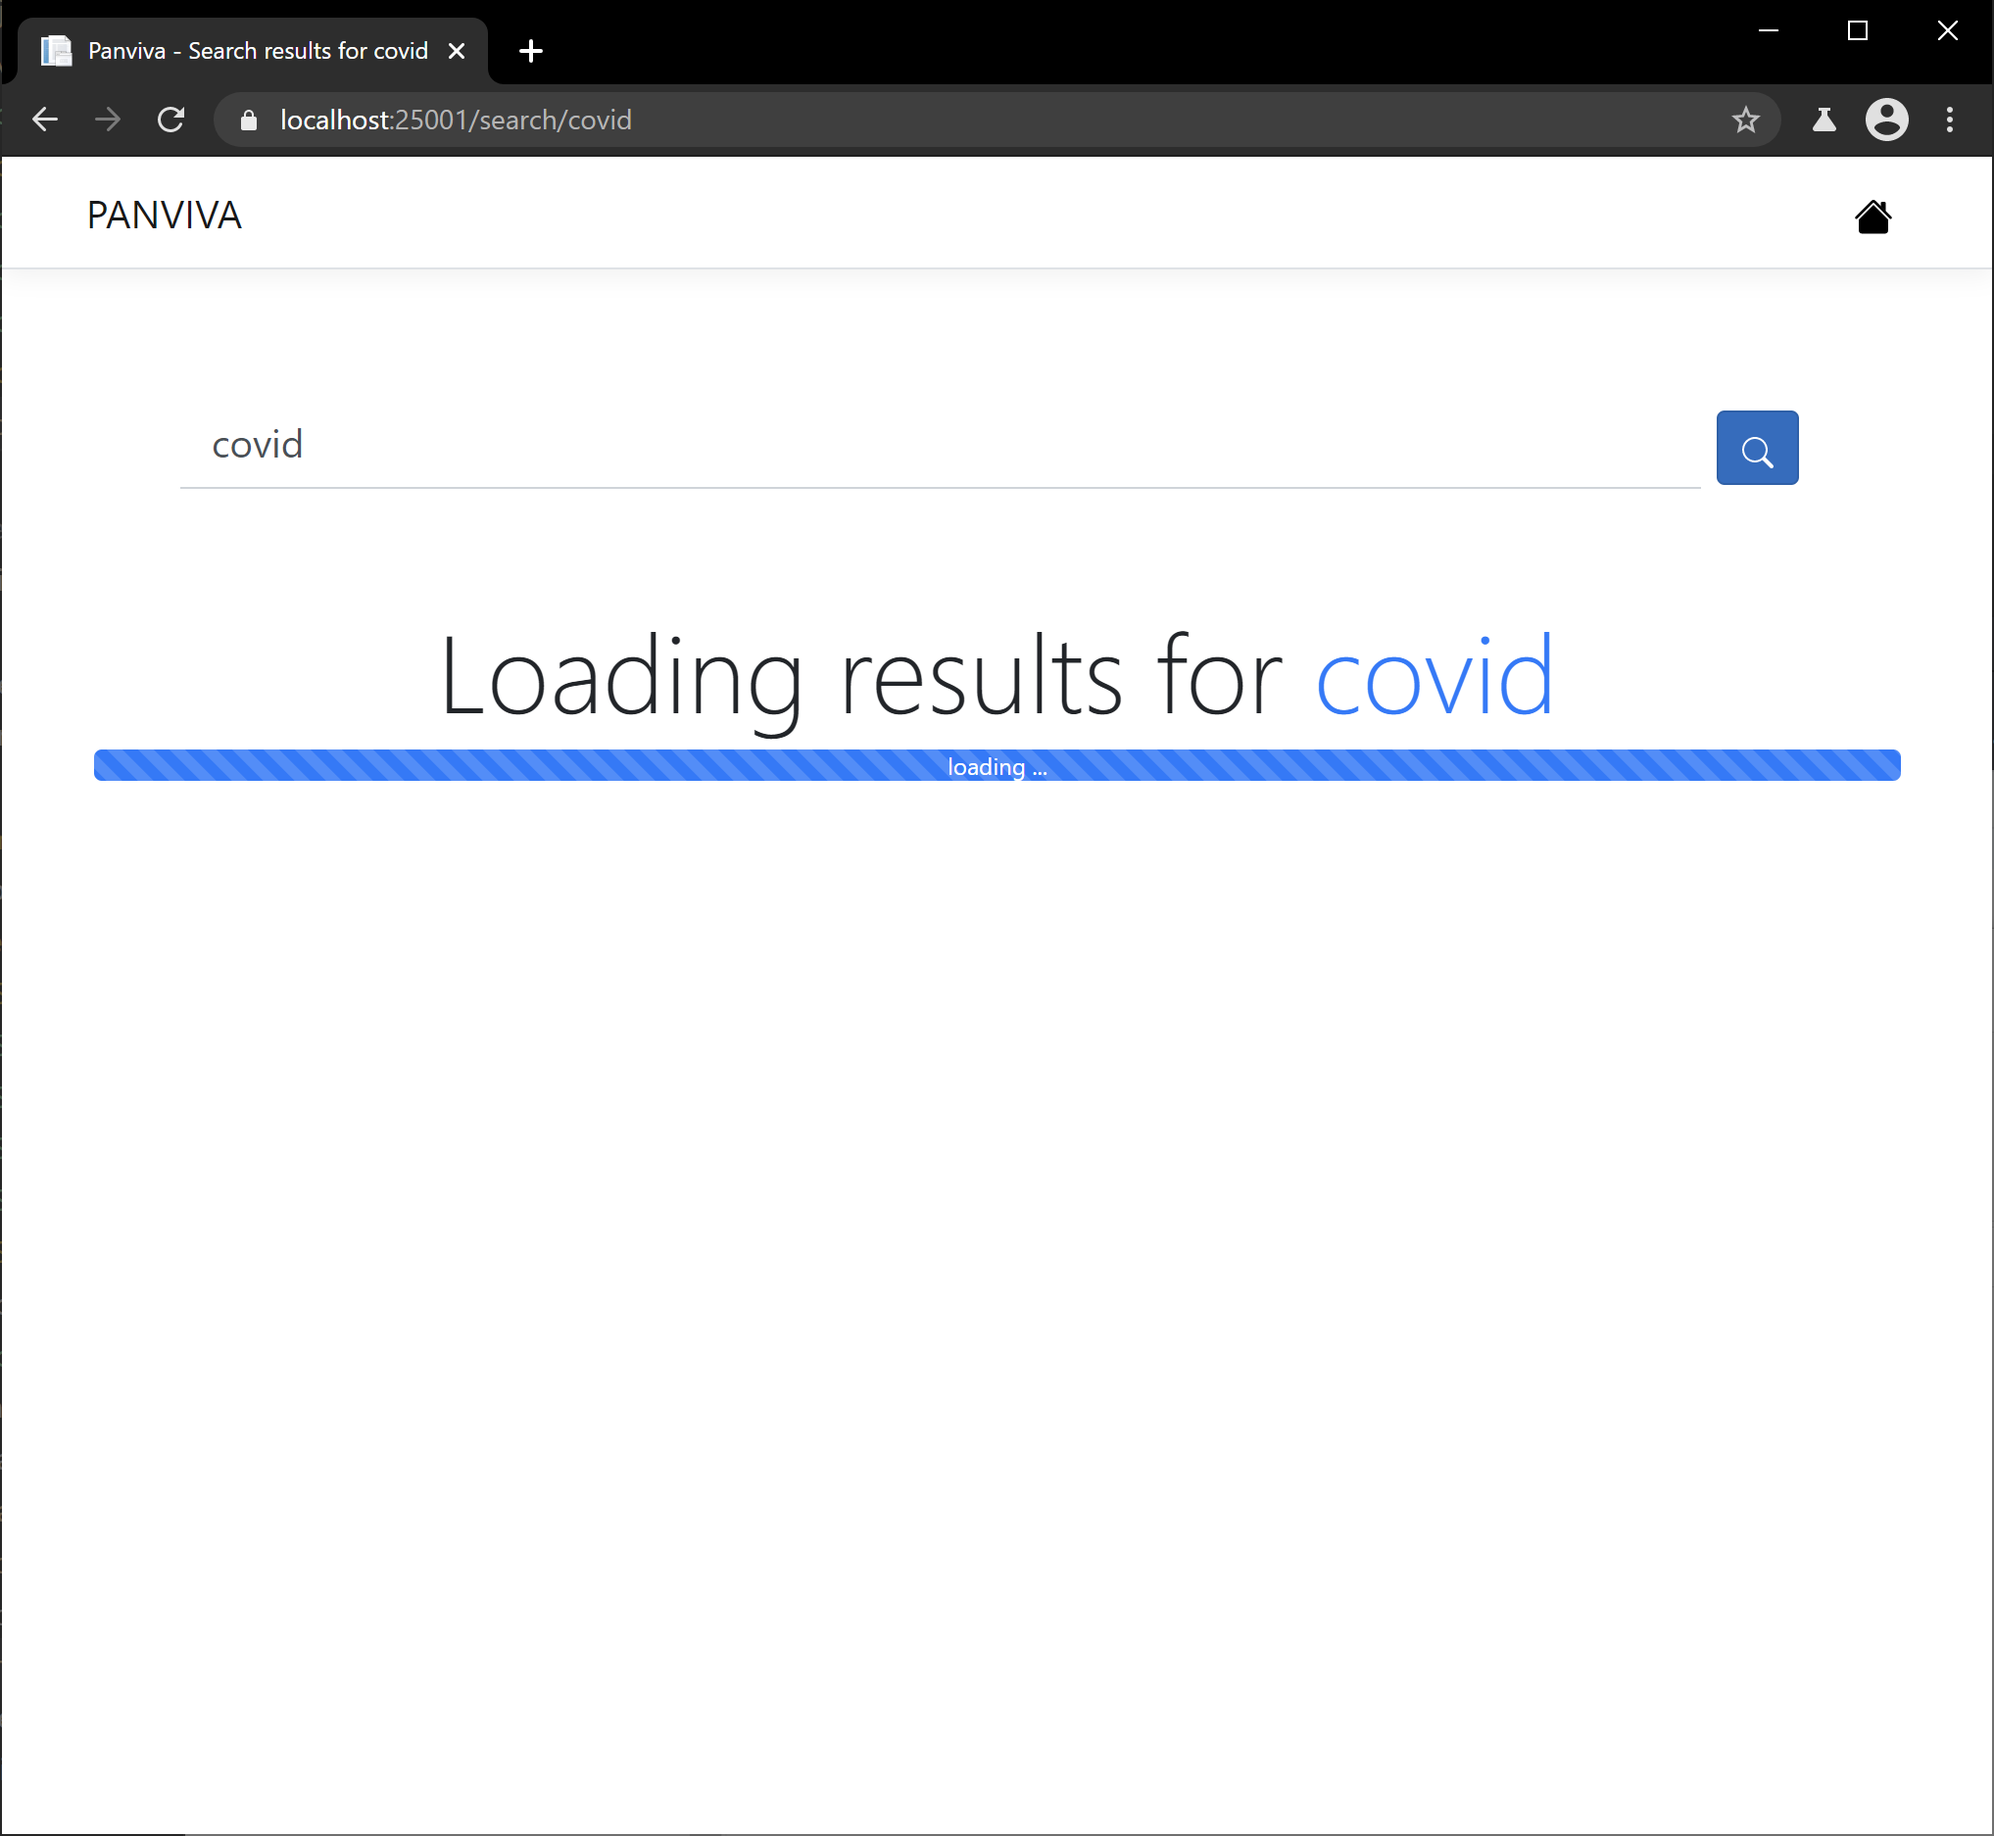
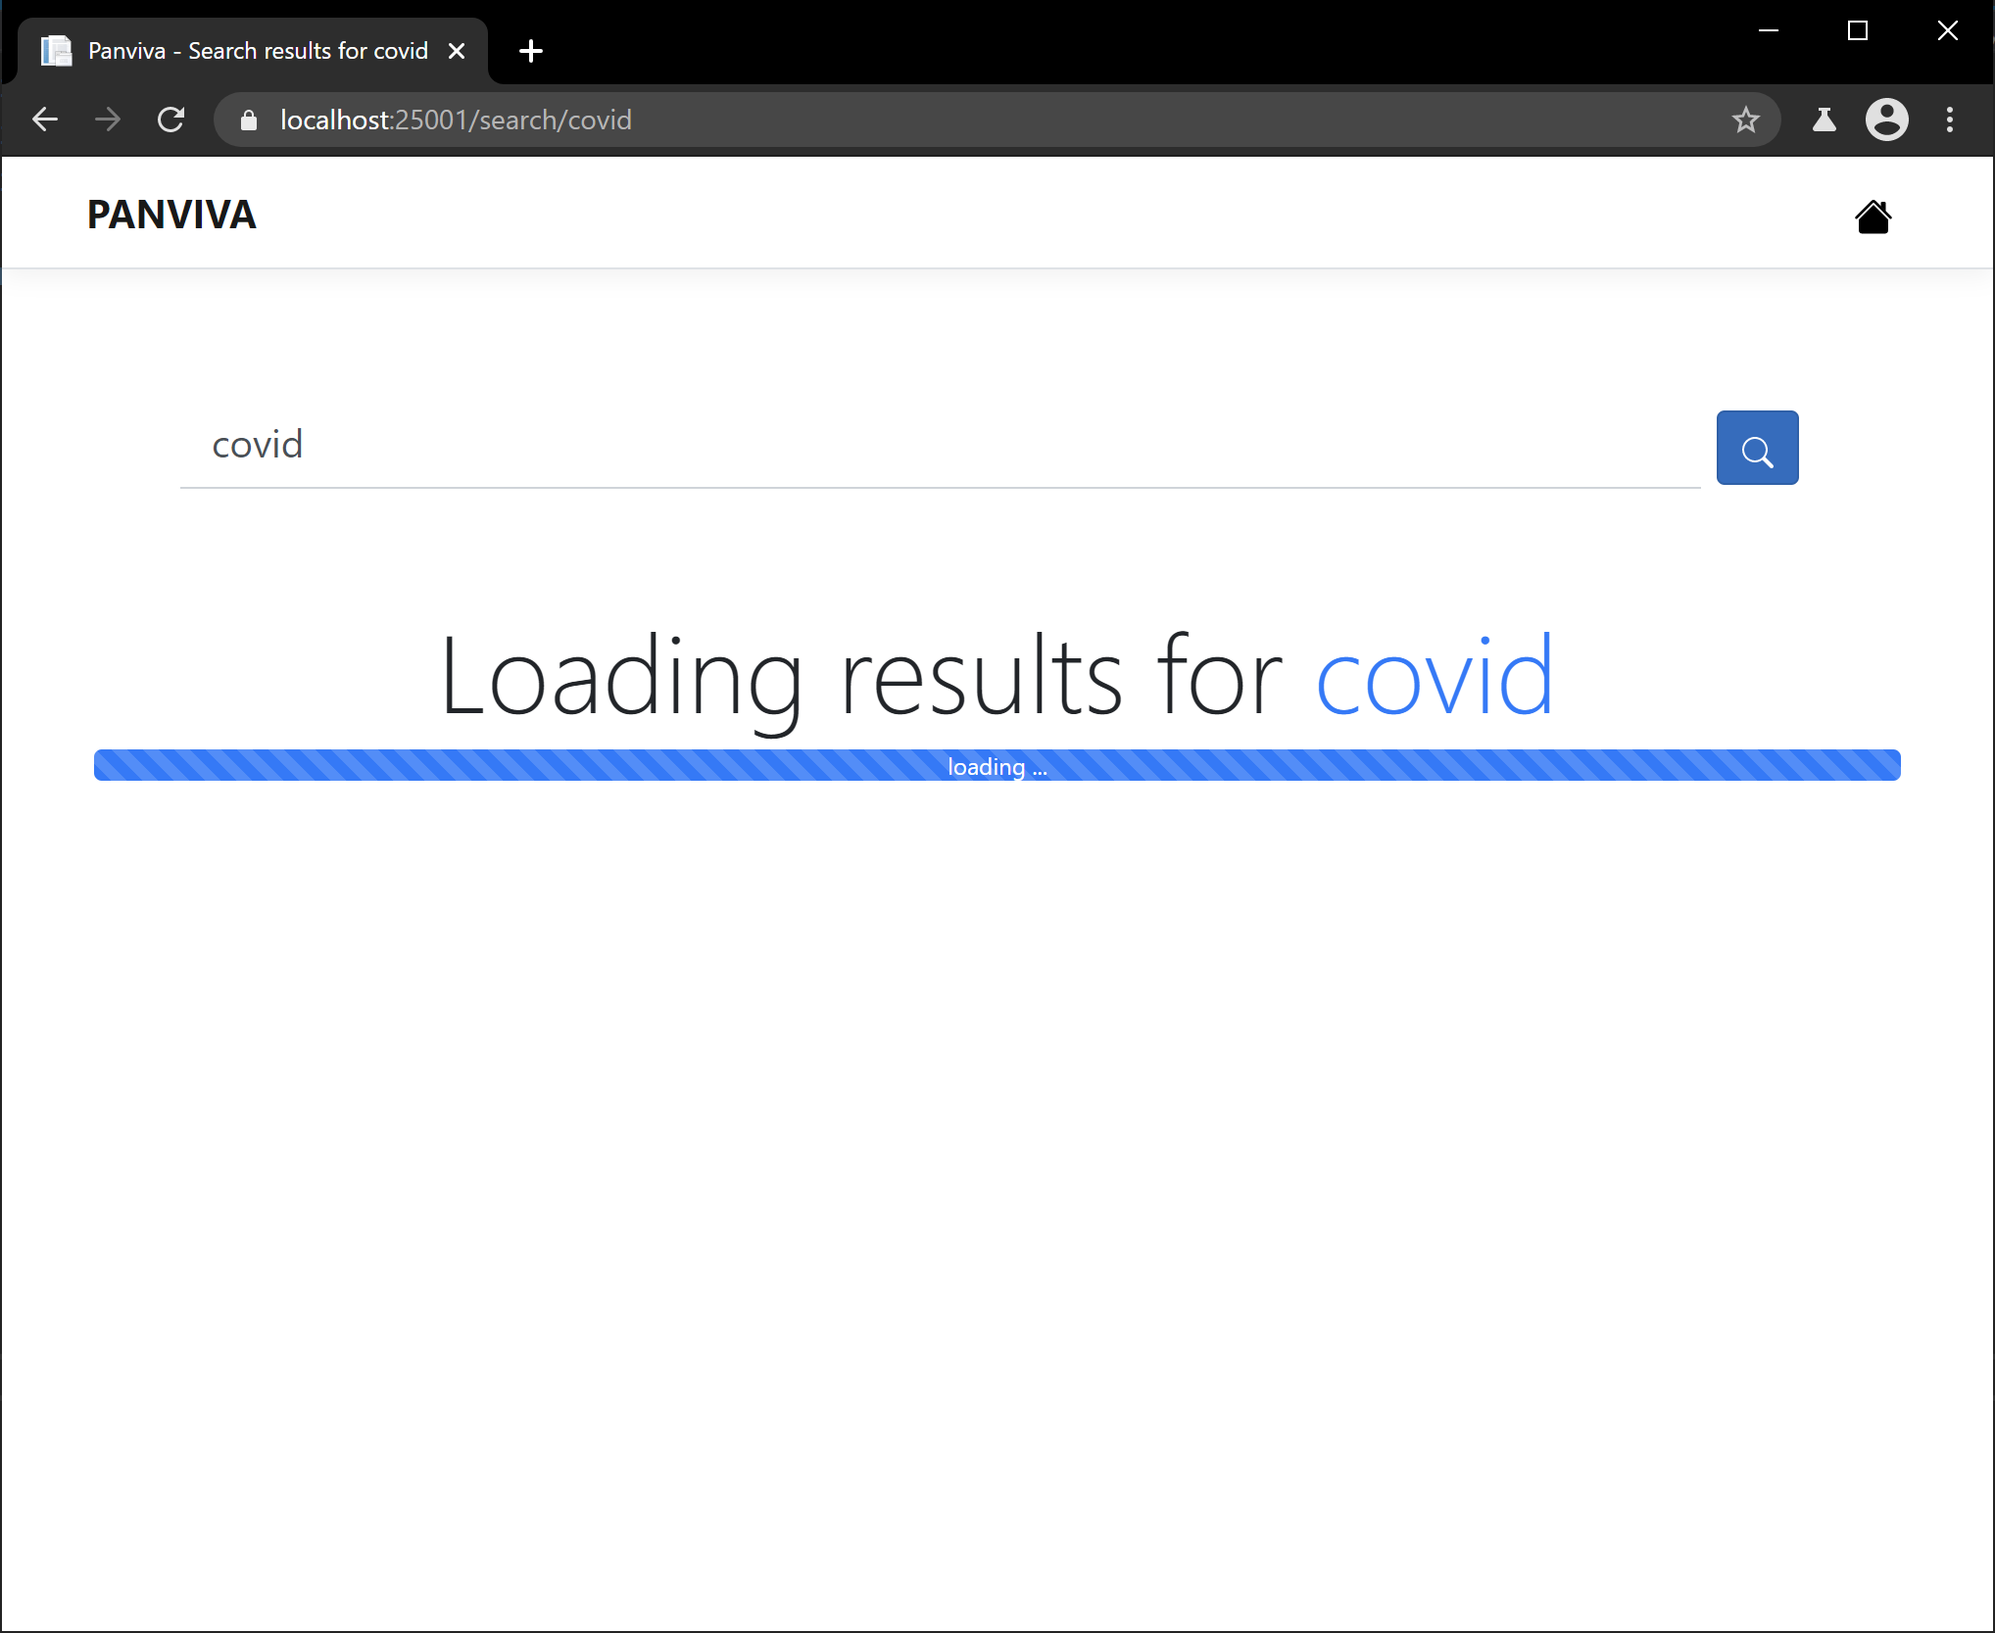
Code Cleanup and User Experience Improvements
- moved document to its own folder component
- updated screenshots
- UI changes to nav bar

diff --git a/Samples.Net.Web/Samples.Net.Web/ClientApp/src/components/Home.js b/Samples.Net.Web/Samples.Net.Web/ClientApp/src/components/Home.js
@@ -11,7 +11,7 @@ export const Home = () => {
     <div>
       <div
         className="d-flex align-content-center flex-wrap"
-        style={{ height: "75vh" }}
+        style={{ height: "60vh" }}
       >
         <SearchBar
           handleInputChange={(e) => {
@@ -23,13 +23,20 @@ export const Home = () => {
             history.push(path);
           }}
         />
-      </div>
-      <div className="d-flex justify-content-end">
-        <p className="p-5 font-weight-light font-style-italic">
-          to search for
+        <p className="lead pl-5 ml-1 font-style-italic">
+          ... to search for
           {searchQuery && searchQuery !== "" ? " " : " something "}
           <strong className="text-primary">{searchQuery}</strong> click the{" "}
           <Search /> button.
+        </p>
+      </div>
+      <div className="d-flex justify-content-end">
+        <p className="p-5 font-weight-light">
+          <span className="bg-light font-weight-bold font-monospace">
+            &nbsp;&lt;/&gt;&nbsp;
+          </span>
+          &nbsp;with &#10084; by
+          <span className="font-weight-bold"> PANVIVA </span>
         </p>
       </div>
     </div>

diff --git a/Samples.Net.Web/Samples.Net.Web/ClientApp/src/App.js b/Samples.Net.Web/Samples.Net.Web/ClientApp/src/App.js
@@ -2,7 +2,7 @@ import React, { Component } from "react";
 import { Route } from "react-router";
 import { Layout } from "./components/Layout";
 import { Home } from "./components/Home";
-import Document from "./components/Document";
+import Document from "./components/document/Document";
 import { Search } from "./components/search/Search";
 
 import "./custom.css";

diff --git a/Samples.Net.Web/Samples.Net.Web/ClientApp/src/components/NavMenu.js b/Samples.Net.Web/Samples.Net.Web/ClientApp/src/components/NavMenu.js
@@ -39,7 +39,7 @@ export class NavMenu extends Component {
         >
           <Container>
             <NavbarBrand tag={Link} to="/">
-              PANVIVA
+              <strong>PANVIVA</strong>
             </NavbarBrand>
             <NavbarToggler onClick={this.toggleNavbar} className="mr-2" />
             <Collapse
